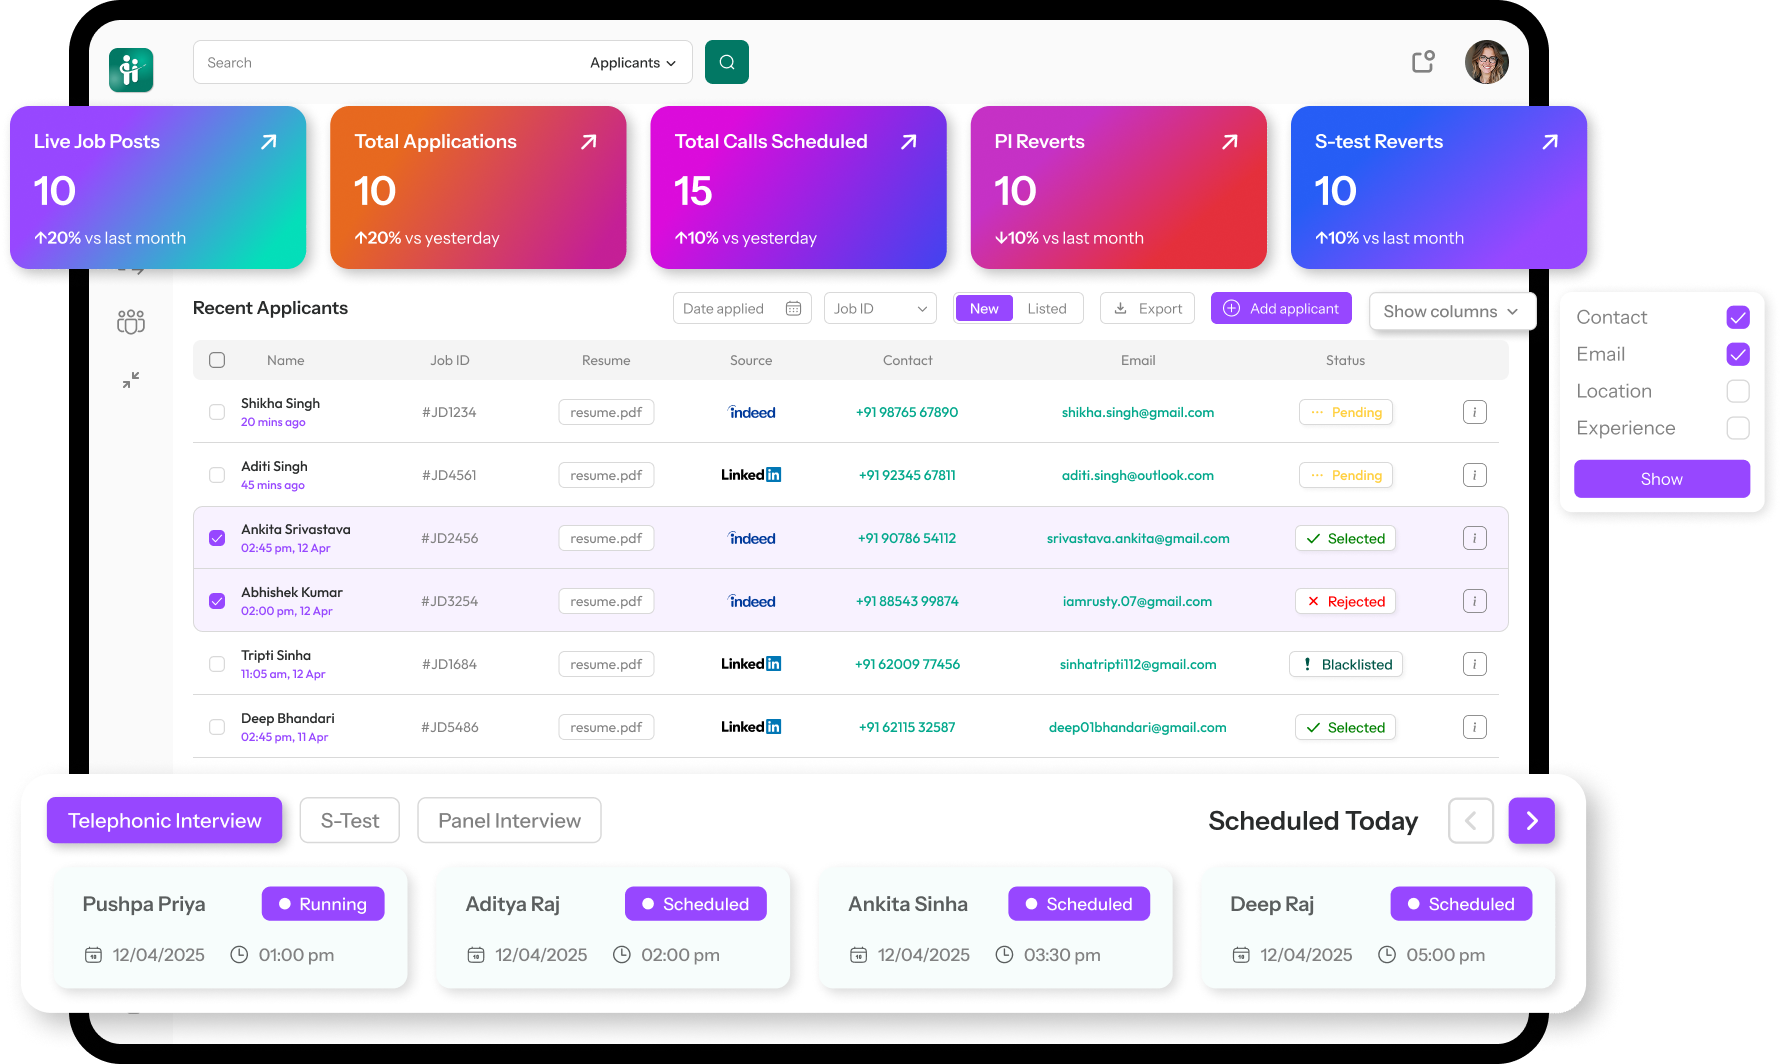
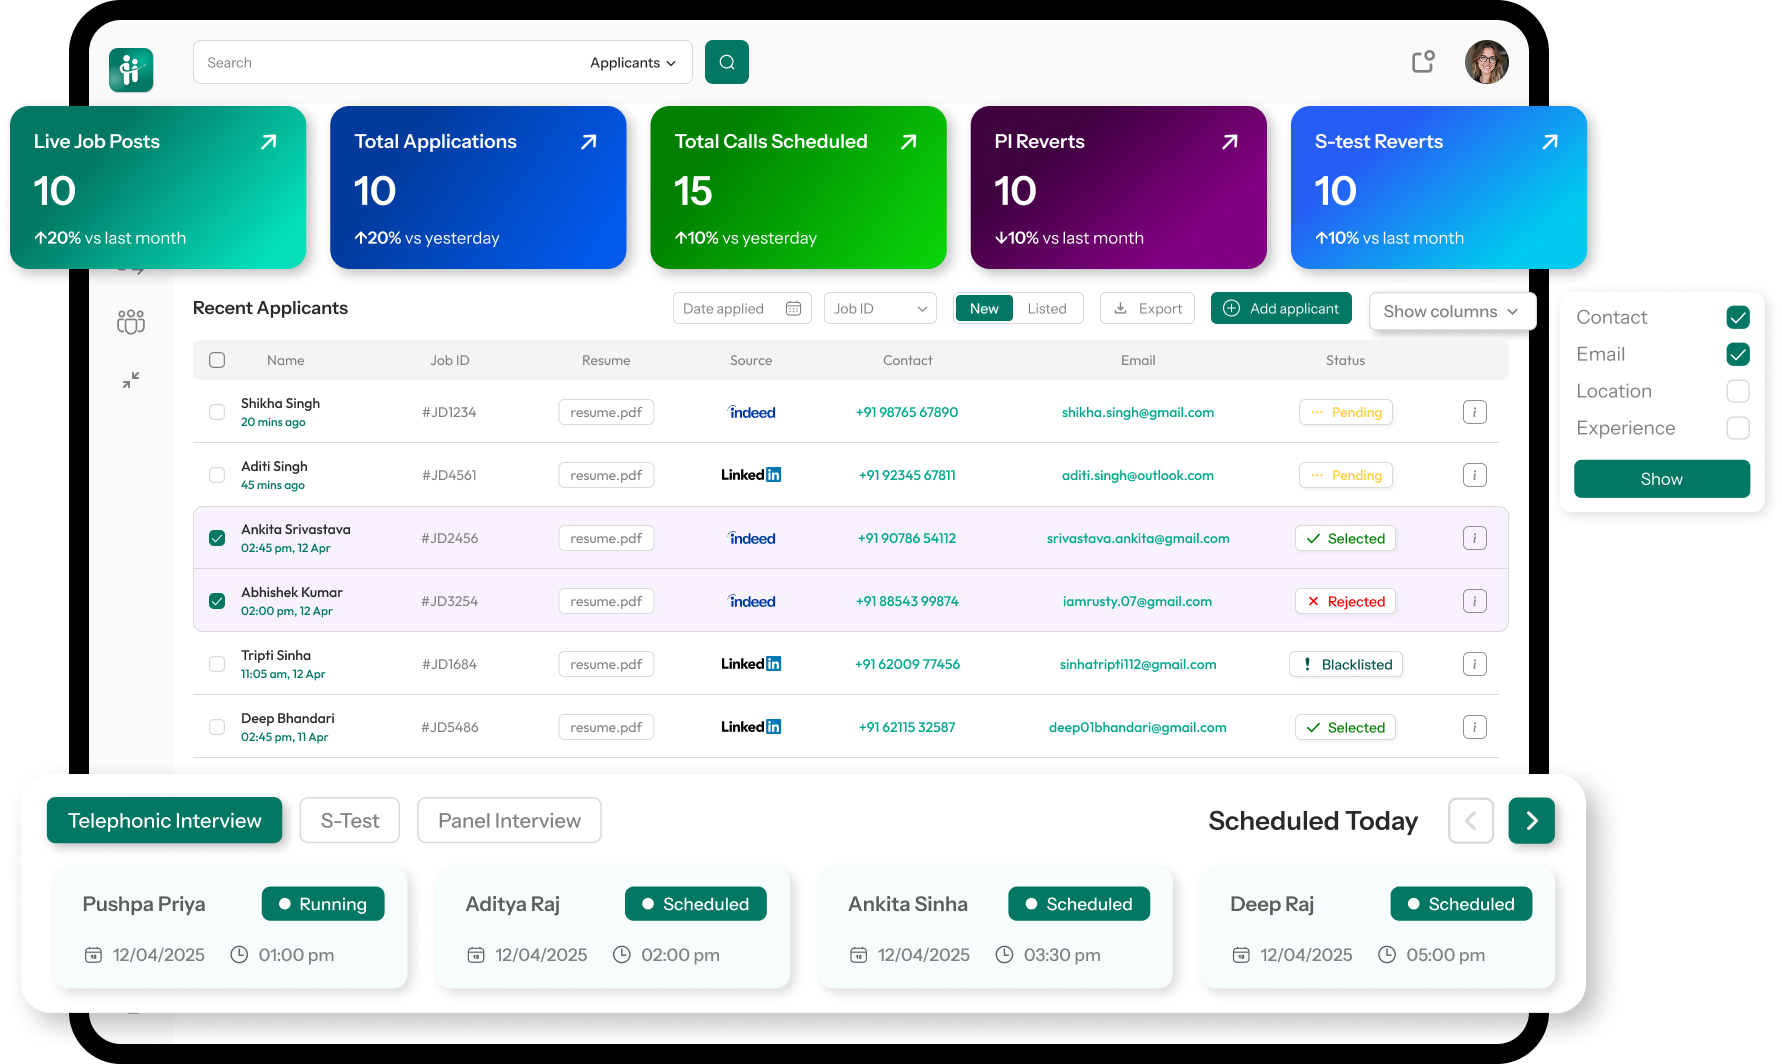
TrussHireMate

diff --git a/src/Pages/Feature.jsx b/src/Pages/Feature.jsx
@@ -154,10 +154,10 @@ const Feature = () => {
       <section
         id="how-it-works"
         ref={howItWorksRef}
-        className="py-8 sm:py-16 bg-gray-50"
+        className=" bg-gray-50"
         data-animate
       >
-        <div className="max-w-7xl mx-auto px-4 sm:px-6 lg:px-8">
+        <div className="max-w-7xl mx-auto px-4 py-4 sm:px-6 lg:px-8">
           <div className="text-center space-y-4 mb-8 sm:mb-16">
             <h2 className="text-4xl md:text-5xl font-bold text-gray-900">
               Get Started with Smart Hiring
@@ -169,7 +169,7 @@ const Feature = () => {
             </p>
           </div>
 
-          <div className="relative flex justify-center items-center h-[350px] sm:h-[600px] mb-8 sm:mb-16">
+          <div className="relative flex justify-center items-center h-[350px] sm:h-[550px] mb-8 sm:mb-16">
             {/* Carousel Image */}
             <img
               src={images[currentIndex]}
@@ -195,8 +195,8 @@ const Feature = () => {
           </div>
         </div>
 
-        <div className="max-w-auto mx-auto px-4 sm:px-6 lg:px-8 bg-gray-200 py-14">
-          <div className="text-center space-y-4 mb-12 sm:mb-16">
+        <div className="max-w-auto mx-auto px-4 sm:px-6 lg:px-16 bg-gray-200 py-14">
+          <div className="text-center space-y-4 mb-12 sm:mb-">
             <h2 className="text-4xl md:text-5xl font-bold text-gray-900">
               How It Works
             </h2>
@@ -238,7 +238,7 @@ const Feature = () => {
       </section>
 
       {/* interview images*/}
-      <section className="py-20 sm:py-2 bg-gradient-to-br from-[#027864] via-teal-500 to-[#027864]">
+      <section className=" sm:py-2 bg-gradient-to-br from-[#027864] via-teal-500 to-[#027864]">
         <div className="max-w-7xl mx-auto px-4 sm:px-6 lg:px-8 h-full">
           <div className="text-center space-y-4 sm:mb-12">
             <h2 className="text-3xl md:text-5xl font-semibold text-white">
@@ -251,7 +251,7 @@ const Feature = () => {
               demo today!
             </p>
           </div>
-          <div className="flex mt-16 h-full">
+          {/* <div className="flex mt-16 h-full">
             <div className=" flex flex-col sm:flex-row h-[500px] w-[700px]  mb-24 sm:mb-2 sm:mt-12 gap-4 sm:gap-12">
               <img
                 src="/Frame2.png"
@@ -267,7 +267,7 @@ const Feature = () => {
                 className="max-w-full h-[300px] sm:h-[500px] w-[400px] sm:w-[500px] transform transition-transform duration-500 hover:scale-105 "
               />
             </div>
-          </div>
+          </div> */}
         </div>
       </section>
 
@@ -294,7 +294,7 @@ const Feature = () => {
 
       {/*Interview process*/}
       <section className="flex flex-col sm:flex-row w-full py-20 bg-gray-50">
-        <div className="max-w-7xl mx-auto px-4 sm:px-6 lg:px-8 sm:w-1/2">
+        <div className="max-w-7xl mx-auto px-4 sm:px-6 lg:px-16 sm:w-1/2">
           <div className=" flex flex-col sm:flex-col gap-4 space-y-4 mb-12 sm:mb-16">
             <h2 className="text-4xl md:text-5xl font-bold text-gray-900">
               Streamlined Interview Process
@@ -314,8 +314,8 @@ const Feature = () => {
             </h1>
           </div>
         </div>
-        <div className="max-w-7xl mx-auto px-4 sm:px-6 lg:px-8 sm:w-1/2 h-auto">
-          <img src="/interview.png" alt="Interview Process" className="w-full sm:h-[450px] h-[250px]" />
+        <div className="max-w-7xl mx-auto px-4 sm:px-6 lg:px-16 sm:w-1/2 h-auto">
+          <img src="/interview.png" alt="Interview Process" className="w-full sm:h-[400px] h-[250px]" />
         </div>
       </section>
     </div>

diff --git a/src/Pages/Testimonial.jsx b/src/Pages/Testimonial.jsx
@@ -29,7 +29,7 @@ const testimonials = [
 
 export default function TestimonialSlider() {
   return (
-    <section className="bg-white py-20 px-4">
+    <section className="bg-white py-20 px-4 sm:px-16">
       <div className="max-w-6xl mx-auto text-center mb-10">
         <h2 className="text-3xl font-bold text-gray-800">
           What Our Users Are Saying
